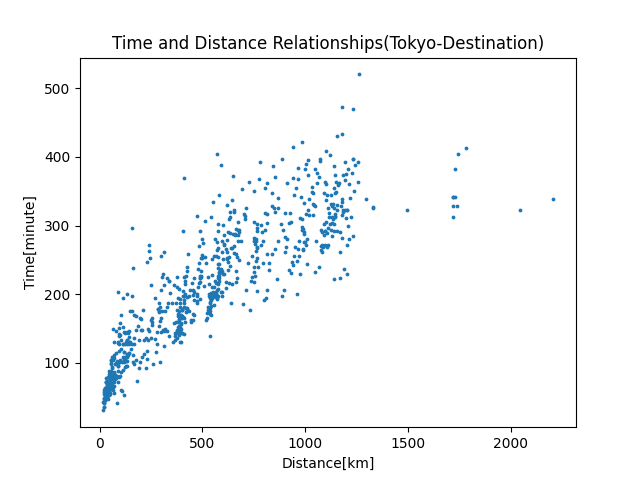
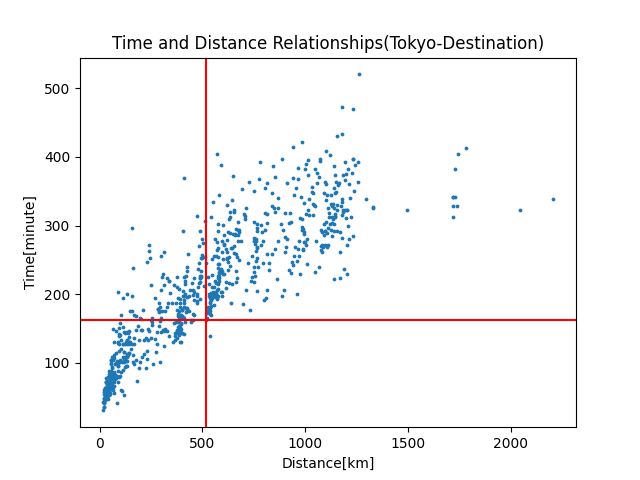
delete class and refactor

Changed region(s): [[0.125, 0.6562, 0.9062, 0.6875]]

diff --git a/modules/preprocessing.py b/modules/preprocessing.py
@@ -1,3 +1,4 @@
+import re
 import time
 import pandas as pd
 import requests
@@ -5,17 +6,23 @@ from bs4 import BeautifulSoup
 from tqdm import tqdm
 
 
-def get_travel_time(route_data: BeautifulSoup):
-    time = route_data.find('li', attrs={'class': 'time'}).text.split('（')[1].split('）')[0]
-    time_split = time.split('時間')
+def get_travel_time(route_data: BeautifulSoup) -> int:
+    t = route_data.find('li', attrs={'class': 'time'}).text
+    match = re.search(r'(\d+)時間(\d+)分', t)
 
-    if len(time_split) == 1:
-        return int(time_split[0].split('分')[0])
-    else:
-        return int(time_split[0]) * 60 + int(time_split[1].split('分')[0])
+    if match:
+        hours, minutes = int(match.group(1)), int(match.group(2))
+        return hours * 60 + minutes
+
+    match = re.search(r'(\d+)分', t)
+
+    if match:
+        return int(match.group(1))
+
+    raise ValueError('Invalid time format')
 
 
-def get_distance(route_data: BeautifulSoup):
+def get_distance(route_data: BeautifulSoup) -> float:
     dist = route_data.find('li', attrs={'class': 'distance'}).text
     return float(dist.replace('km', ''))
 
@@ -32,7 +39,7 @@ def get_transport_info(destination: str):
         'travel_time': get_travel_time(route_data),
         'is_express': "特急" in detail,
         'is_superexpress': "新幹線" in detail,
-        'is_bus': 'bus' in detail or 'highWaybus' in detail,
+        'is_bus': any(x in detail for x in ['bus', 'highWaybus']),
         'is_airplane': "air" in detail
     }
 
@@ -70,6 +77,6 @@ def get_and_save_dataframe():
 
 def drop_unnecessary_columns(df):
     df = df.astype({'is_express': bool, 'is_superexpress': bool, 'is_bus': bool, 'is_airplane': bool})
-    df = df.drop(df.columns[[0,1,2,3,4,5,6,7]], axis=1)
+    df = df.drop(df.columns[[0, 1, 2, 3, 4, 5, 6, 7]], axis=1)
 
     return df

diff --git a/main.py b/main.py
@@ -1,26 +1,30 @@
 from modules import preprocessing, making_figures, learning, predicting
 import pandas as pd
+import numpy as np
 
 
 def main():
     print('Start processing...')
-    inputted = int(input('Enter 0 if you have already processed data, or 1 if you want to start from data processing:'))
 
-    df = []
+    processing_type = int(input('Enter 0 if you have already processed data, or 1 if you want to start from data processing:'))
 
-    if inputted == 1:
+    df = None
+
+    if processing_type == 1:
         df = preprocessing.get_and_save_dataframe()
-
-    if inputted == 0:
+    elif processing_type == 0:
         df = pd.read_csv('data/preprocessed_data.csv')
 
     df = preprocessing.drop_unnecessary_columns(df)
-    print(df)
+    df.corr().to_csv('data/corr.csv')
+
     making_figures.make_scatter(df, 'Time and Distance Relationships(Tokyo-Destination)', 'distance', 'Distance[km]', 'travel_time', 'Time[minute]')
 
-    model = learning.lgb_regression(df)
 
-    print(model)
+    gbm = learning.lgb_regression(df)
+    predicting.predict(gbm)
+
+    print('Finish.')
 
 
 if __name__ == '__main__':

diff --git a/modules/learning.py b/modules/learning.py
@@ -2,13 +2,14 @@ import lightgbm as lgb
 from sklearn.model_selection import train_test_split
 from sklearn.preprocessing import StandardScaler
 from sklearn.linear_model import SGDRegressor
+import matplotlib.pyplot as plt
 from sklearn.metrics import mean_absolute_error
 
 
 def lgb_regression(df):
-    df_train, df_test = train_test_split(df, test_size=0.2)
+    df_train, df_test = train_test_split(df, test_size=0.3)
 
-    col = 'distance'
+    col = 'travel_time'
 
     train_y, train_x = df_train[col], df_train.drop(col, axis=1)
     test_y, test_x = df_test[col], df_test.drop(col, axis=1)
@@ -22,11 +23,7 @@ def lgb_regression(df):
         'num_leaves': 31
     }
 
-    return lgb.train(params,
-                      trains,
-                      valid_sets=tests,
-                      num_boost_round=1000,
-                      early_stopping_rounds=100)
+    return lgb.train(params, trains, valid_sets=tests, num_boost_round=10000, early_stopping_rounds=100)
 
 
 def sgd_regression(df):

diff --git a/modules/predicting.py b/modules/predicting.py
@@ -1,7 +1,13 @@
-from sklearn.metrics import accuracy_score
+import pandas as pd
 
 
-def prediction(model, test_x, test_y):
-    pred_y = model.predict(test_x, num_iteration=model.best_iteration)
-    return pred_y, accuracy_score(test_y, pred_y)
+def predict(gbm_model):
+    df = pd.read_csv('data/prediction.csv')
+
+    destination_lis = df['destination']
+    prediction_lis = df.drop(['destination'], axis=1)
+    predict_results = pd.DataFrame(gbm_model.predict(prediction_lis), columns=['travel_time'])
+    df_result = pd.concat([destination_lis, pd.DataFrame(predict_results)], axis=1)
+
+    df_result.to_csv('data/result.csv')
 

diff --git a/modules/making_figures.py b/modules/making_figures.py
@@ -9,8 +9,9 @@ def make_scatter(df, title: str, x_axis: str, x_axis_name: str, y_axis: str, y_a
     plt.title(title)
     plt.xlabel(x_axis_name)
     plt.ylabel(y_axis_name)
+    plt.axvline(x=517.2, color='r')
+    plt.axhline(y=163, color='r')
 
     plt.savefig('figures/scatter.png')
 
-    corr = df.corr()
-    corr.to_csv('data/corr.csv')
+
